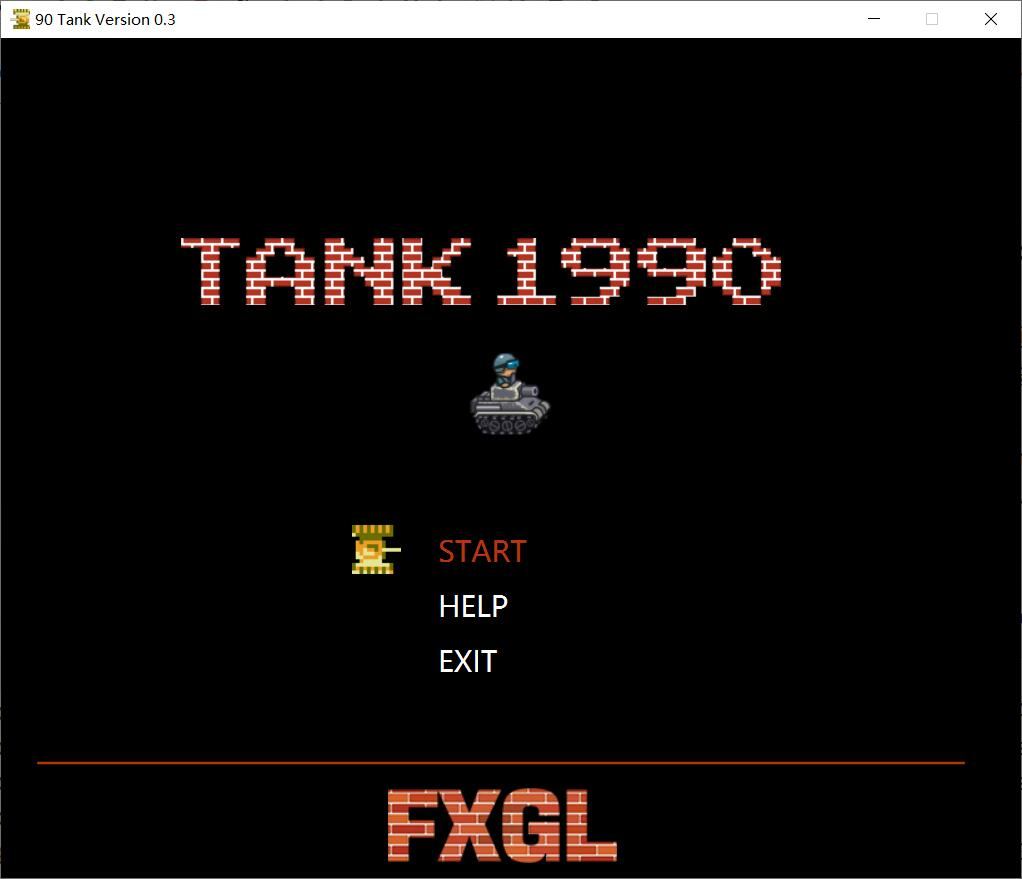
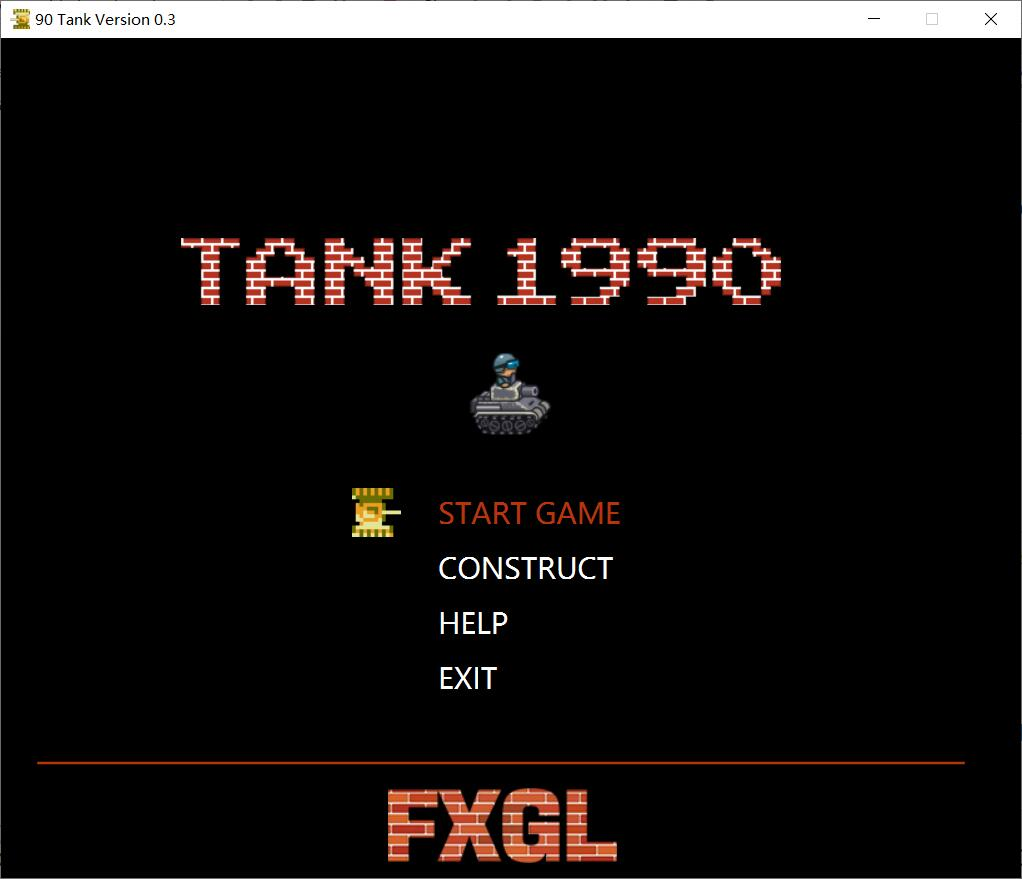
add screenshot modify css

Changed region(s): [[0.4247, 0.5529, 0.6067, 0.7986], [0.3337, 0.5529, 0.3943, 0.6758]]

diff --git a/src/main/resources/assets/ui/css/tankApp.css b/src/main/resources/assets/ui/css/tankApp.css
@@ -24,7 +24,10 @@
 .construct-pane {
     -fx-background-color: GRAY;
 }
-
+.tile-btn {
+    -fx-background-color: white;
+    -fx-effect: dropshadow(three-pass-box, gray, 2, 0.2, 0, 0);
+}
 .tile-btn:focused {
     -fx-background-color: black;
 }
@@ -71,6 +74,9 @@
 .bottom-box .button:hover{
     -fx-background-color: black;
     -fx-text-fill: white;
+}
+.bottom-box .button:focused {
+    -fx-effect: dropshadow(three-pass-box, black, 5, 0.2, 0, 0);
 }
 
 .bottom-box .button Region {

diff --git a/src/main/java/com/leewyatt/github/tank/ui/GameMainMenu.java b/src/main/java/com/leewyatt/github/tank/ui/GameMainMenu.java
@@ -36,14 +36,14 @@ public class GameMainMenu extends FXGLMenu {
         texture.setLayoutX(144);
         texture.setLayoutY(160);
 
-        MainMenuButton newGameBtn = new MainMenuButton("START", this::fireNewGame);
-        MainMenuButton constructBtn = new MainMenuButton("CONSTRUCT",()->{
+        MainMenuButton newGameBtn = new MainMenuButton("START GAME", this::fireNewGame);
+        MainMenuButton constructBtn = new MainMenuButton("CONSTRUCT", () -> {
             getContentRoot().getChildren().setAll(new ConstructPane());
         });
         MainMenuButton helpBtn = new MainMenuButton("HELP", this::instructions);
-        MainMenuButton exitBtn = new MainMenuButton("EXIT", ()->getGameController().exit());
+        MainMenuButton exitBtn = new MainMenuButton("EXIT", () -> getGameController().exit());
         ToggleGroup tg = new ToggleGroup();
-        tg.getToggles().addAll(newGameBtn,constructBtn,helpBtn,exitBtn);
+        tg.getToggles().addAll(newGameBtn, constructBtn, helpBtn, exitBtn);
         newGameBtn.setSelected(true);
         VBox menuBox = new VBox(
                 5,
@@ -54,7 +54,7 @@ public class GameMainMenu extends FXGLMenu {
         );
         menuBox.setAlignment(Pos.CENTER_LEFT);
         menuBox.setLayoutX(240);
-        menuBox.setLayoutY(390);
+        menuBox.setLayoutY(360);
         menuBox.setVisible(false);
 
         Texture tankTexture = FXGL.texture("ui/tankLoading.png");
@@ -75,7 +75,7 @@ public class GameMainMenu extends FXGLMenu {
         textureWall.setLayoutX(310);
         textureWall.setLayoutY(600);
 
-        defaultPane = new Pane(bgRect, texture, tankTexture, menuBox, line,textureWall);
+        defaultPane = new Pane(bgRect, texture, tankTexture, menuBox, line, textureWall);
         getContentRoot().getChildren().setAll(defaultPane);
     }
 

diff --git a/src/main/java/com/leewyatt/github/tank/ui/ConstructPane.java b/src/main/java/com/leewyatt/github/tank/ui/ConstructPane.java
@@ -15,10 +15,7 @@ import javafx.scene.layout.*;
 import javafx.scene.paint.Color;
 import javafx.scene.shape.Rectangle;
 
-import java.io.FileInputStream;
-import java.io.FileOutputStream;
-import java.io.ObjectInputStream;
-import java.io.ObjectOutputStream;
+import java.io.*;
 import java.util.ArrayList;
 import java.util.Arrays;
 import java.util.List;
@@ -139,6 +136,7 @@ public class ConstructPane extends BorderPane {
                 btnBrick, btnBrick4, btnStone, btnStone4, btnSnow, btnSnow4, btnSea, btnSea4, btnGreens, btnGreens4, btnEmpty, btnEmpty4
         );
         tp.setVgap(8);
+        tp.setTileAlignment(Pos.TOP_CENTER);
         return tp;
     }
 
@@ -222,6 +220,7 @@ public class ConstructPane extends BorderPane {
     }
 
     private void initMapData() {
+        //boolean exists= new File(GameConfig.CUSTOM_LEVEL_DATA).exists();
         boolean exists = getFileSystemService().exists(GameConfig.CUSTOM_LEVEL_DATA);
         if (exists) {
             loadMapData();

diff --git a/README.md b/README.md
@@ -11,5 +11,6 @@
 > 目前的 加群问题: JavaFX是什么? 答: JAVA图形界面技术
 
 There are a variety of game props.
+![screenshot](ReadmeImages/construct.jpg)
 ![screenshot](ReadmeImages/game.jpg)
 ![screenshot](ReadmeImages/startup.jpg)
